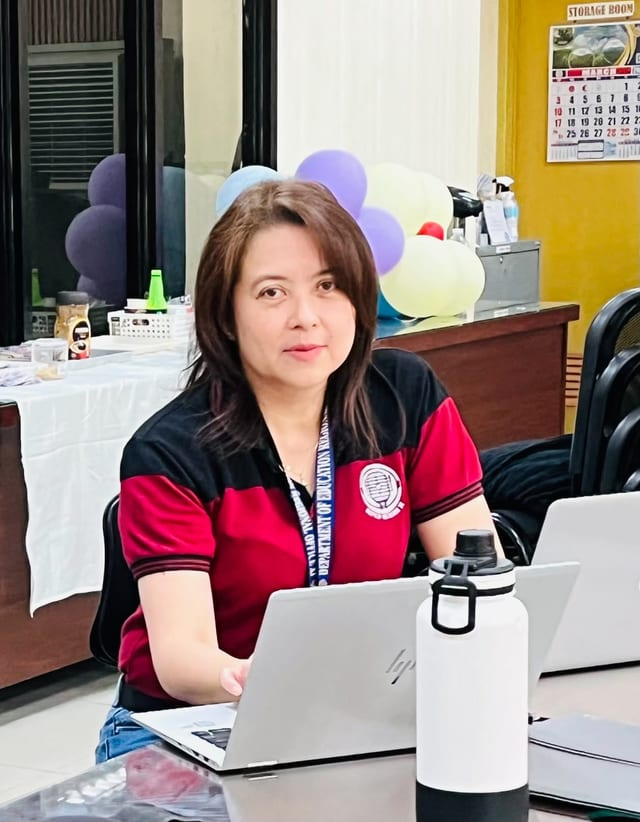
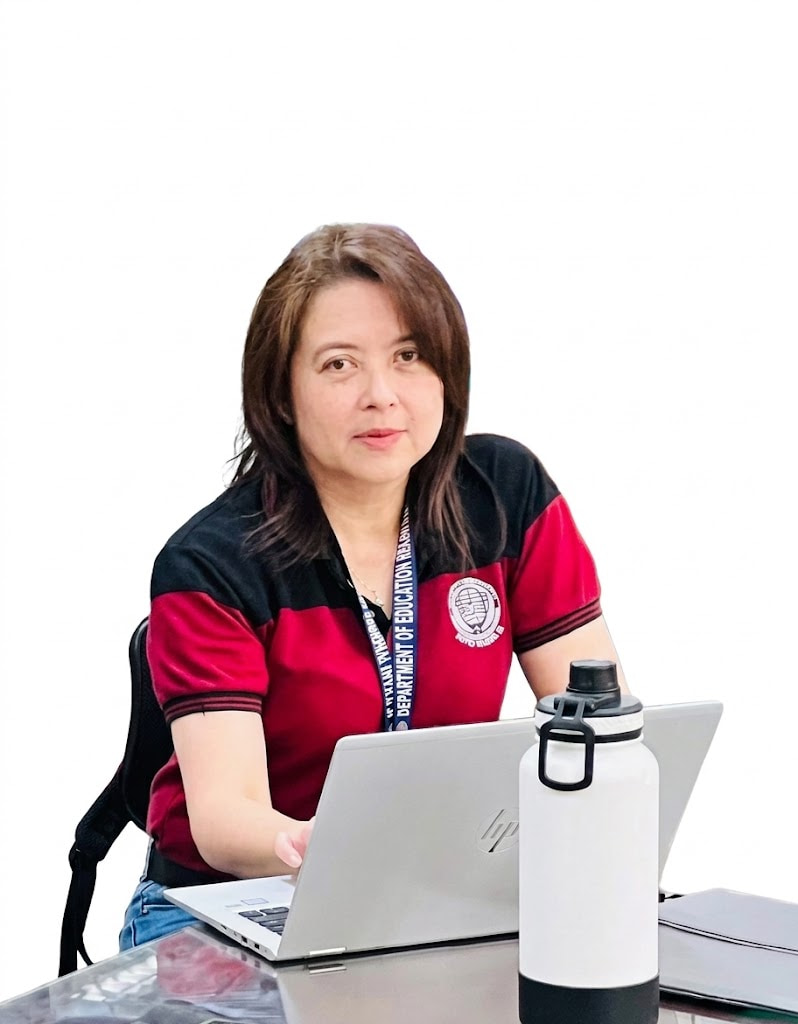
Author blog intro with live reader counter; white-background portrait
- New 'From the Author's Desk' section before About Me: welcome note,
  count-up counters for readers, views and published stories, and her
  newspaper columns, book and education features
- About Me photo replaced with the white-background portrait at full
  resolution in a white photo mat

diff --git a/web/src/components/AuthorBlog.jsx b/web/src/components/AuthorBlog.jsx
@@ -1,0 +1,121 @@
+import { useEffect, useRef, useState } from 'react'
+
+/** Counts up from 0 the first time the number scrolls into view. */
+function CountUp({ value, duration = 1600 }) {
+  const ref = useRef(null)
+  const [shown, setShown] = useState(0)
+
+  useEffect(() => {
+    const el = ref.current
+    if (!el || !value) {
+      setShown(value || 0)
+      return
+    }
+    let frame
+    const run = () => {
+      const start = performance.now()
+      const tick = (now) => {
+        const t = Math.min(1, (now - start) / duration)
+        setShown(Math.round(value * (1 - Math.pow(1 - t, 3)))) // ease-out
+        if (t < 1) frame = requestAnimationFrame(tick)
+      }
+      frame = requestAnimationFrame(tick)
+    }
+    const io = new IntersectionObserver(
+      ([entry]) => {
+        if (entry.isIntersecting) {
+          run()
+          io.disconnect()
+        }
+      },
+      { threshold: 0.4 },
+    )
+    io.observe(el)
+    return () => {
+      io.disconnect()
+      cancelAnimationFrame(frame)
+    }
+  }, [value, duration])
+
+  return (
+    <span ref={ref} className="tabular-nums">
+      {shown.toLocaleString()}
+    </span>
+  )
+}
+
+const WRITING = [
+  {
+    icon: '📰',
+    title: 'Newspaper columns',
+    text: 'Opinion columns in SunStar Davao on education, leadership, personal reflections, and social issues.',
+  },
+  {
+    icon: '📖',
+    title: 'Her own book',
+    text: 'Long-form storytelling in her own voice, for readers who want to go deeper.',
+  },
+  {
+    icon: '🏫',
+    title: 'Education features',
+    text: 'Stories about education leaders and regional initiatives for DepEd Davao Dispatch.',
+  },
+]
+
+/**
+ * Blog-style introduction shown before "About Me": a welcome note, a live
+ * counter of everyone who has read here, and the kinds of writing she publishes.
+ */
+export function AuthorBlog({ stats }) {
+  return (
+    <section id="blog" className="mt-20 scroll-mt-24">
+      <div className="text-center">
+        <p className="text-xs font-semibold tracking-[0.25em] text-accent uppercase">From the Author&apos;s Desk</p>
+        <h2 className="mx-auto mt-3 max-w-3xl font-display text-3xl leading-tight sm:text-5xl">
+          Stories, columns and reflections from Davao
+        </h2>
+        <p className="mx-auto mt-4 max-w-2xl text-lg text-muted">
+          Welcome to my corner of the internet. Here I share the stories I write: from my newspaper columns and
+          education features to my own book. Every reader who stops by is part of this journey. Thank you for reading.
+        </p>
+      </div>
+
+      {/* Live reader counter */}
+      <div className="mx-auto mt-10 grid max-w-4xl gap-4 sm:grid-cols-3">
+        {[
+          { label: 'Readers so far', value: stats?.total_readers, icon: '👥', big: true },
+          { label: 'Story views', value: stats?.total_views, icon: '👁' },
+          { label: 'Stories published', value: stats?.published_stories, icon: '📚' },
+        ].map((s) => (
+          <div
+            key={s.label}
+            className={`card relative overflow-hidden p-6 text-center transition hover:-translate-y-1 ${
+              s.big ? 'ring-2 ring-accent/40' : ''
+            }`}
+          >
+            {s.big && <div className="pointer-events-none absolute -top-10 left-1/2 h-24 w-40 -translate-x-1/2 rounded-full bg-accent/25 blur-2xl" />}
+            <p className="relative text-2xl" aria-hidden>
+              {s.icon}
+            </p>
+            <p className={`relative mt-2 font-display ${s.big ? 'text-5xl text-accent' : 'text-4xl'}`}>
+              <CountUp value={s.value || 0} />
+            </p>
+            <p className="relative mt-1 text-xs tracking-widest text-muted uppercase">{s.label}</p>
+          </div>
+        ))}
+      </div>
+
+      <div className="mx-auto mt-6 grid max-w-4xl gap-4 sm:grid-cols-3">
+        {WRITING.map((w) => (
+          <article key={w.title} className="rounded-2xl border border-line bg-surface/60 p-5">
+            <p className="text-2xl" aria-hidden>
+              {w.icon}
+            </p>
+            <h3 className="mt-2 font-semibold">{w.title}</h3>
+            <p className="mt-1 text-sm text-muted">{w.text}</p>
+          </article>
+        ))}
+      </div>
+    </section>
+  )
+}

diff --git a/web/src/components/AboutMe.jsx b/web/src/components/AboutMe.jsx
@@ -44,18 +44,21 @@ export function AboutMe() {
           <div className="mx-auto w-64 [perspective:1000px] sm:w-72 md:w-full" onMouseMove={onMove} onMouseLeave={() => (frame.current.style.transform = '')}>
             <div ref={frame} className="relative transition-transform duration-300 ease-out [transform-style:preserve-3d]">
               <div className="absolute inset-0 translate-x-4 translate-y-4 rounded-3xl bg-gradient-to-br from-accent/60 to-brand/60 [transform:translateZ(-30px)]" />
-              <picture>
-                <source srcSet="/about/maria-gemima-valderrama.webp" type="image/webp" />
-                <img
-                  src="/about/maria-gemima-valderrama.jpg"
-                  alt="Maria Gemima Valderrama"
-                  loading="lazy"
-                  width="640"
-                  height="822"
-                  className="relative aspect-[4/5] w-full rounded-3xl object-cover object-[50%_30%] shadow-2xl shadow-black/40"
-                />
-              </picture>
-              <div className="pointer-events-none absolute inset-0 rounded-3xl bg-gradient-to-tr from-transparent via-transparent to-white/15" />
+              {/* White mat so the white-background portrait reads as a photo print in every theme */}
+              <div className="relative rounded-3xl bg-white p-2 shadow-2xl shadow-black/40 ring-1 ring-black/5">
+                <picture>
+                  <source srcSet="/about/maria-gemima-valderrama.webp" type="image/webp" />
+                  <img
+                    src="/about/maria-gemima-valderrama.jpg"
+                    alt="Maria Gemima Valderrama"
+                    loading="lazy"
+                    decoding="async"
+                    width="798"
+                    height="1024"
+                    className="block aspect-[798/1024] w-full rounded-2xl bg-white object-contain"
+                  />
+                </picture>
+              </div>
             </div>
           </div>
 

diff --git a/web/src/pages/Home.jsx b/web/src/pages/Home.jsx
@@ -2,6 +2,7 @@ import { lazy, Suspense, useEffect, useMemo, useState } from 'react'
 import { Link } from 'react-router-dom'
 
 import { AboutMe } from '../components/AboutMe'
+import { AuthorBlog } from '../components/AuthorBlog'
 import { Book3D, Shelf } from '../components/Book3D'
 import { Spinner } from '../components/ui'
 import { api } from '../lib/api'
@@ -163,6 +164,7 @@ export function Home() {
         </>
       )}
 
+      <AuthorBlog stats={data?.stats} />
       <AboutMe />
     </>
   )
